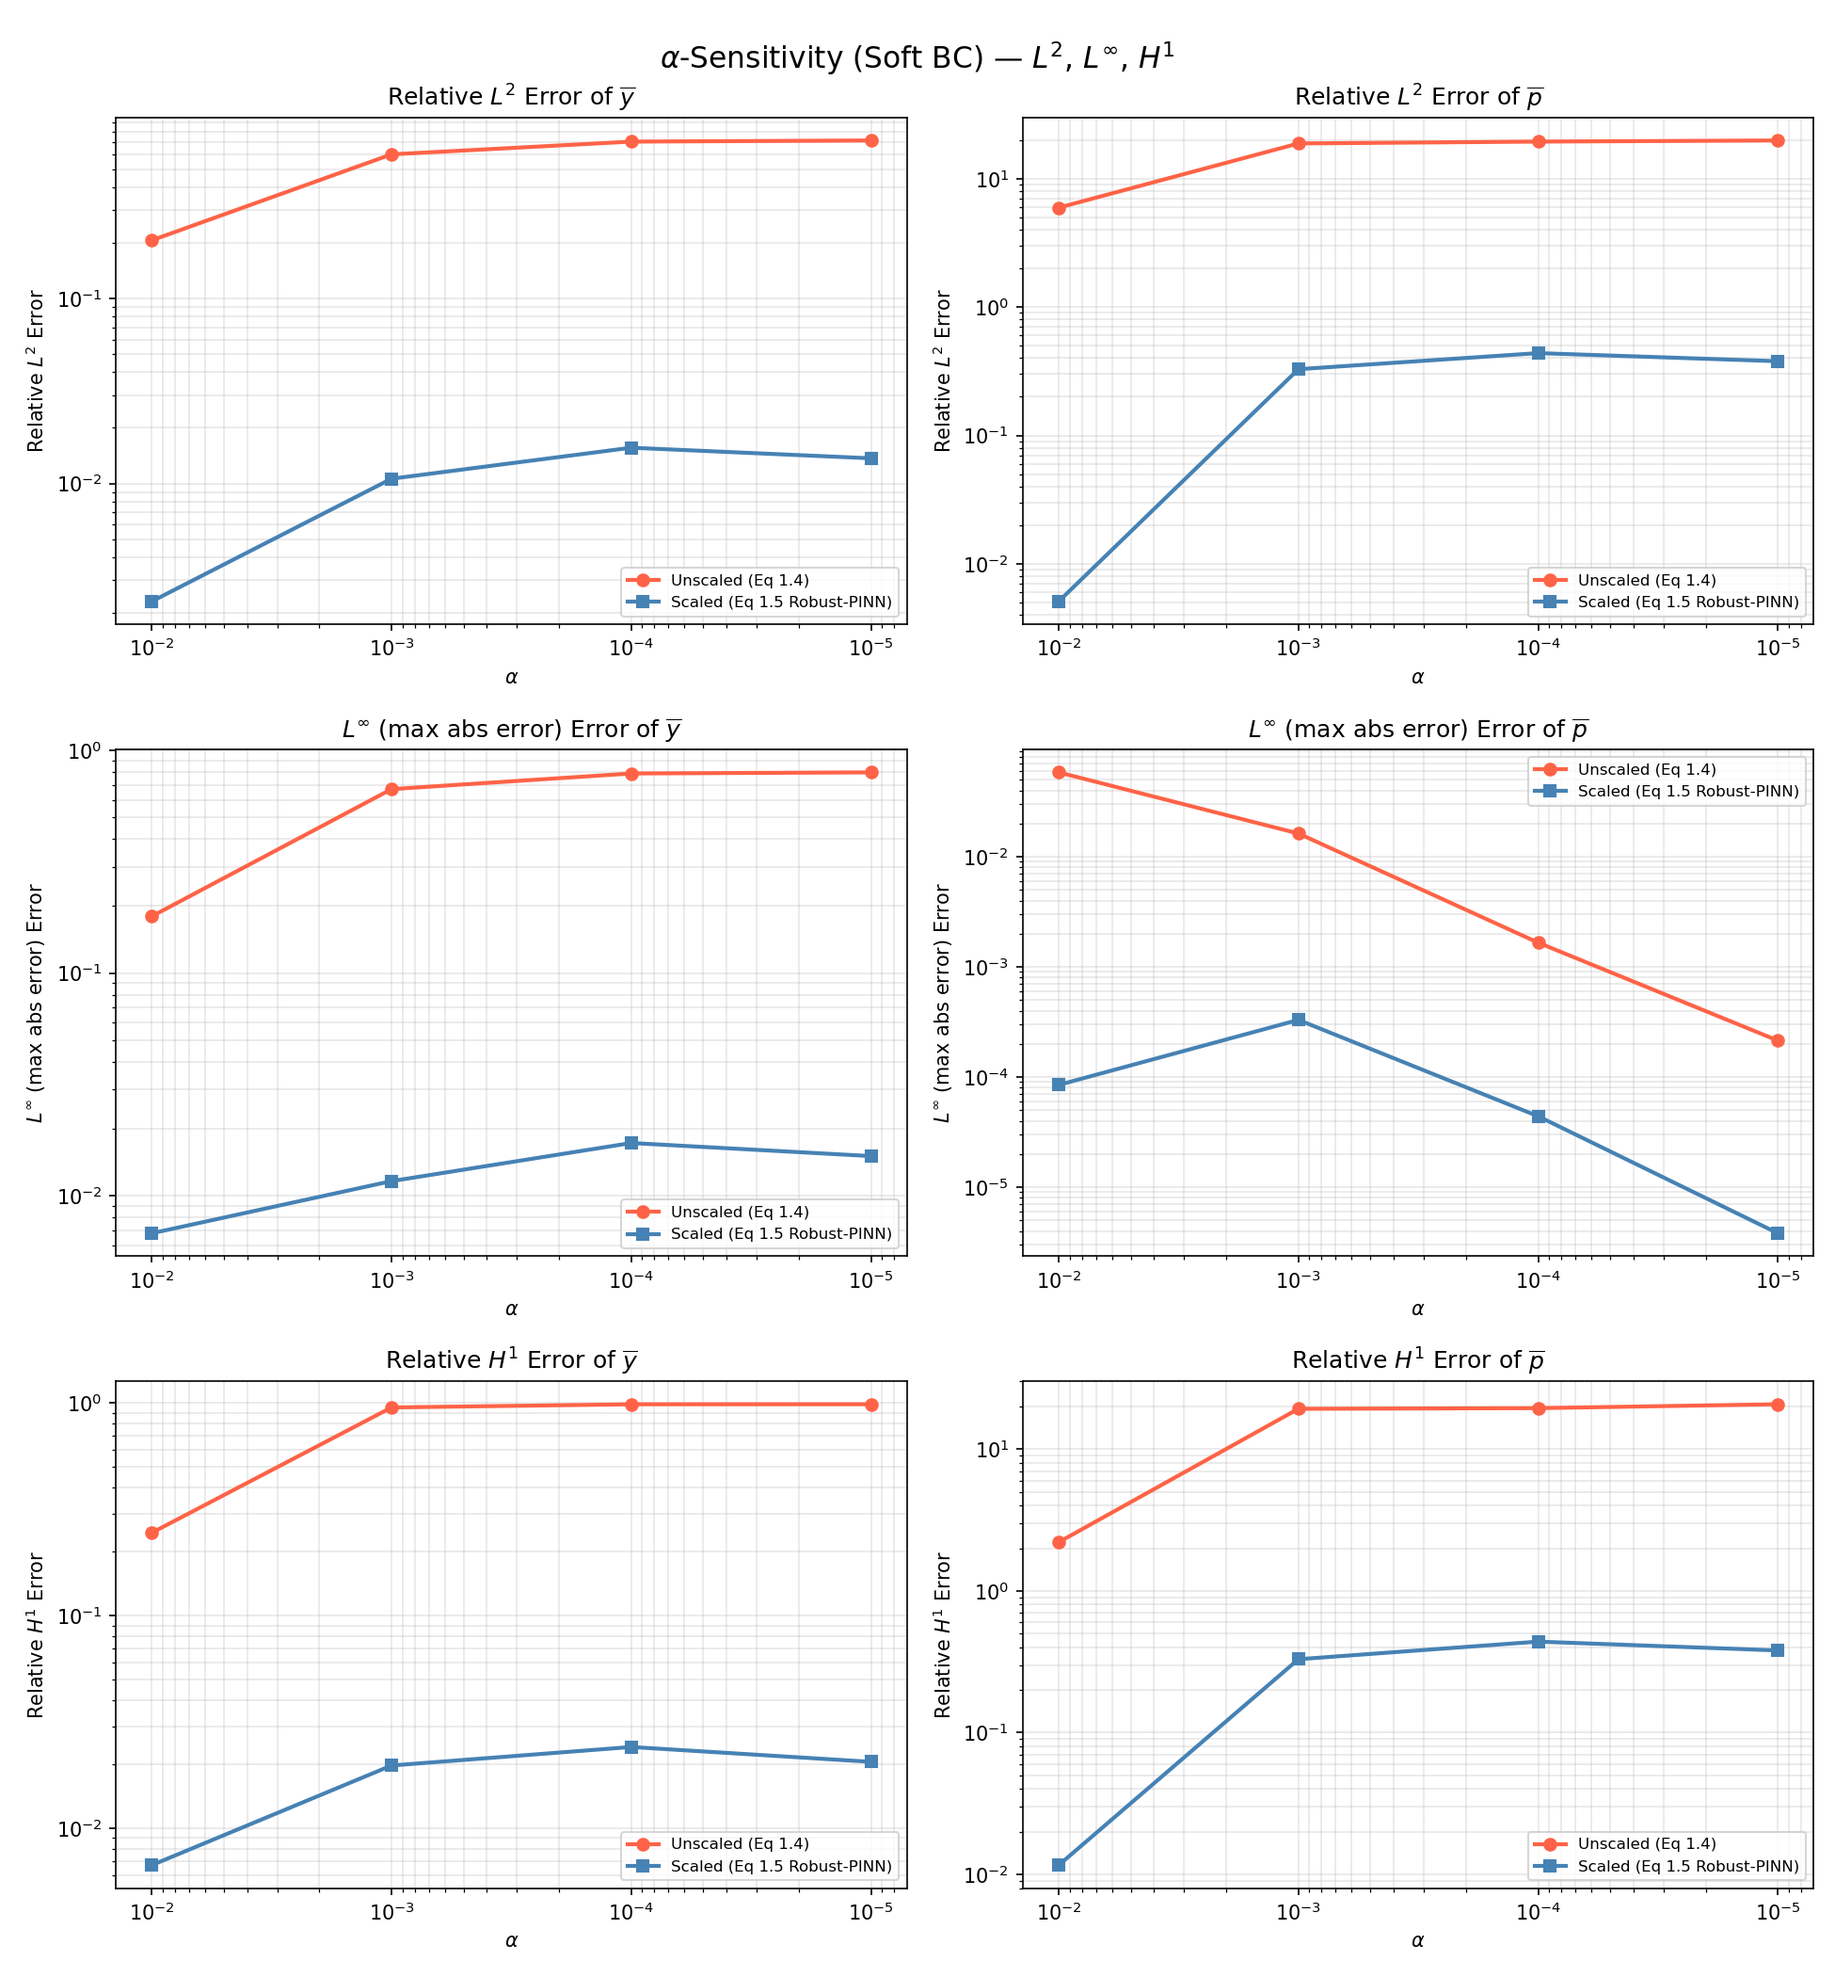
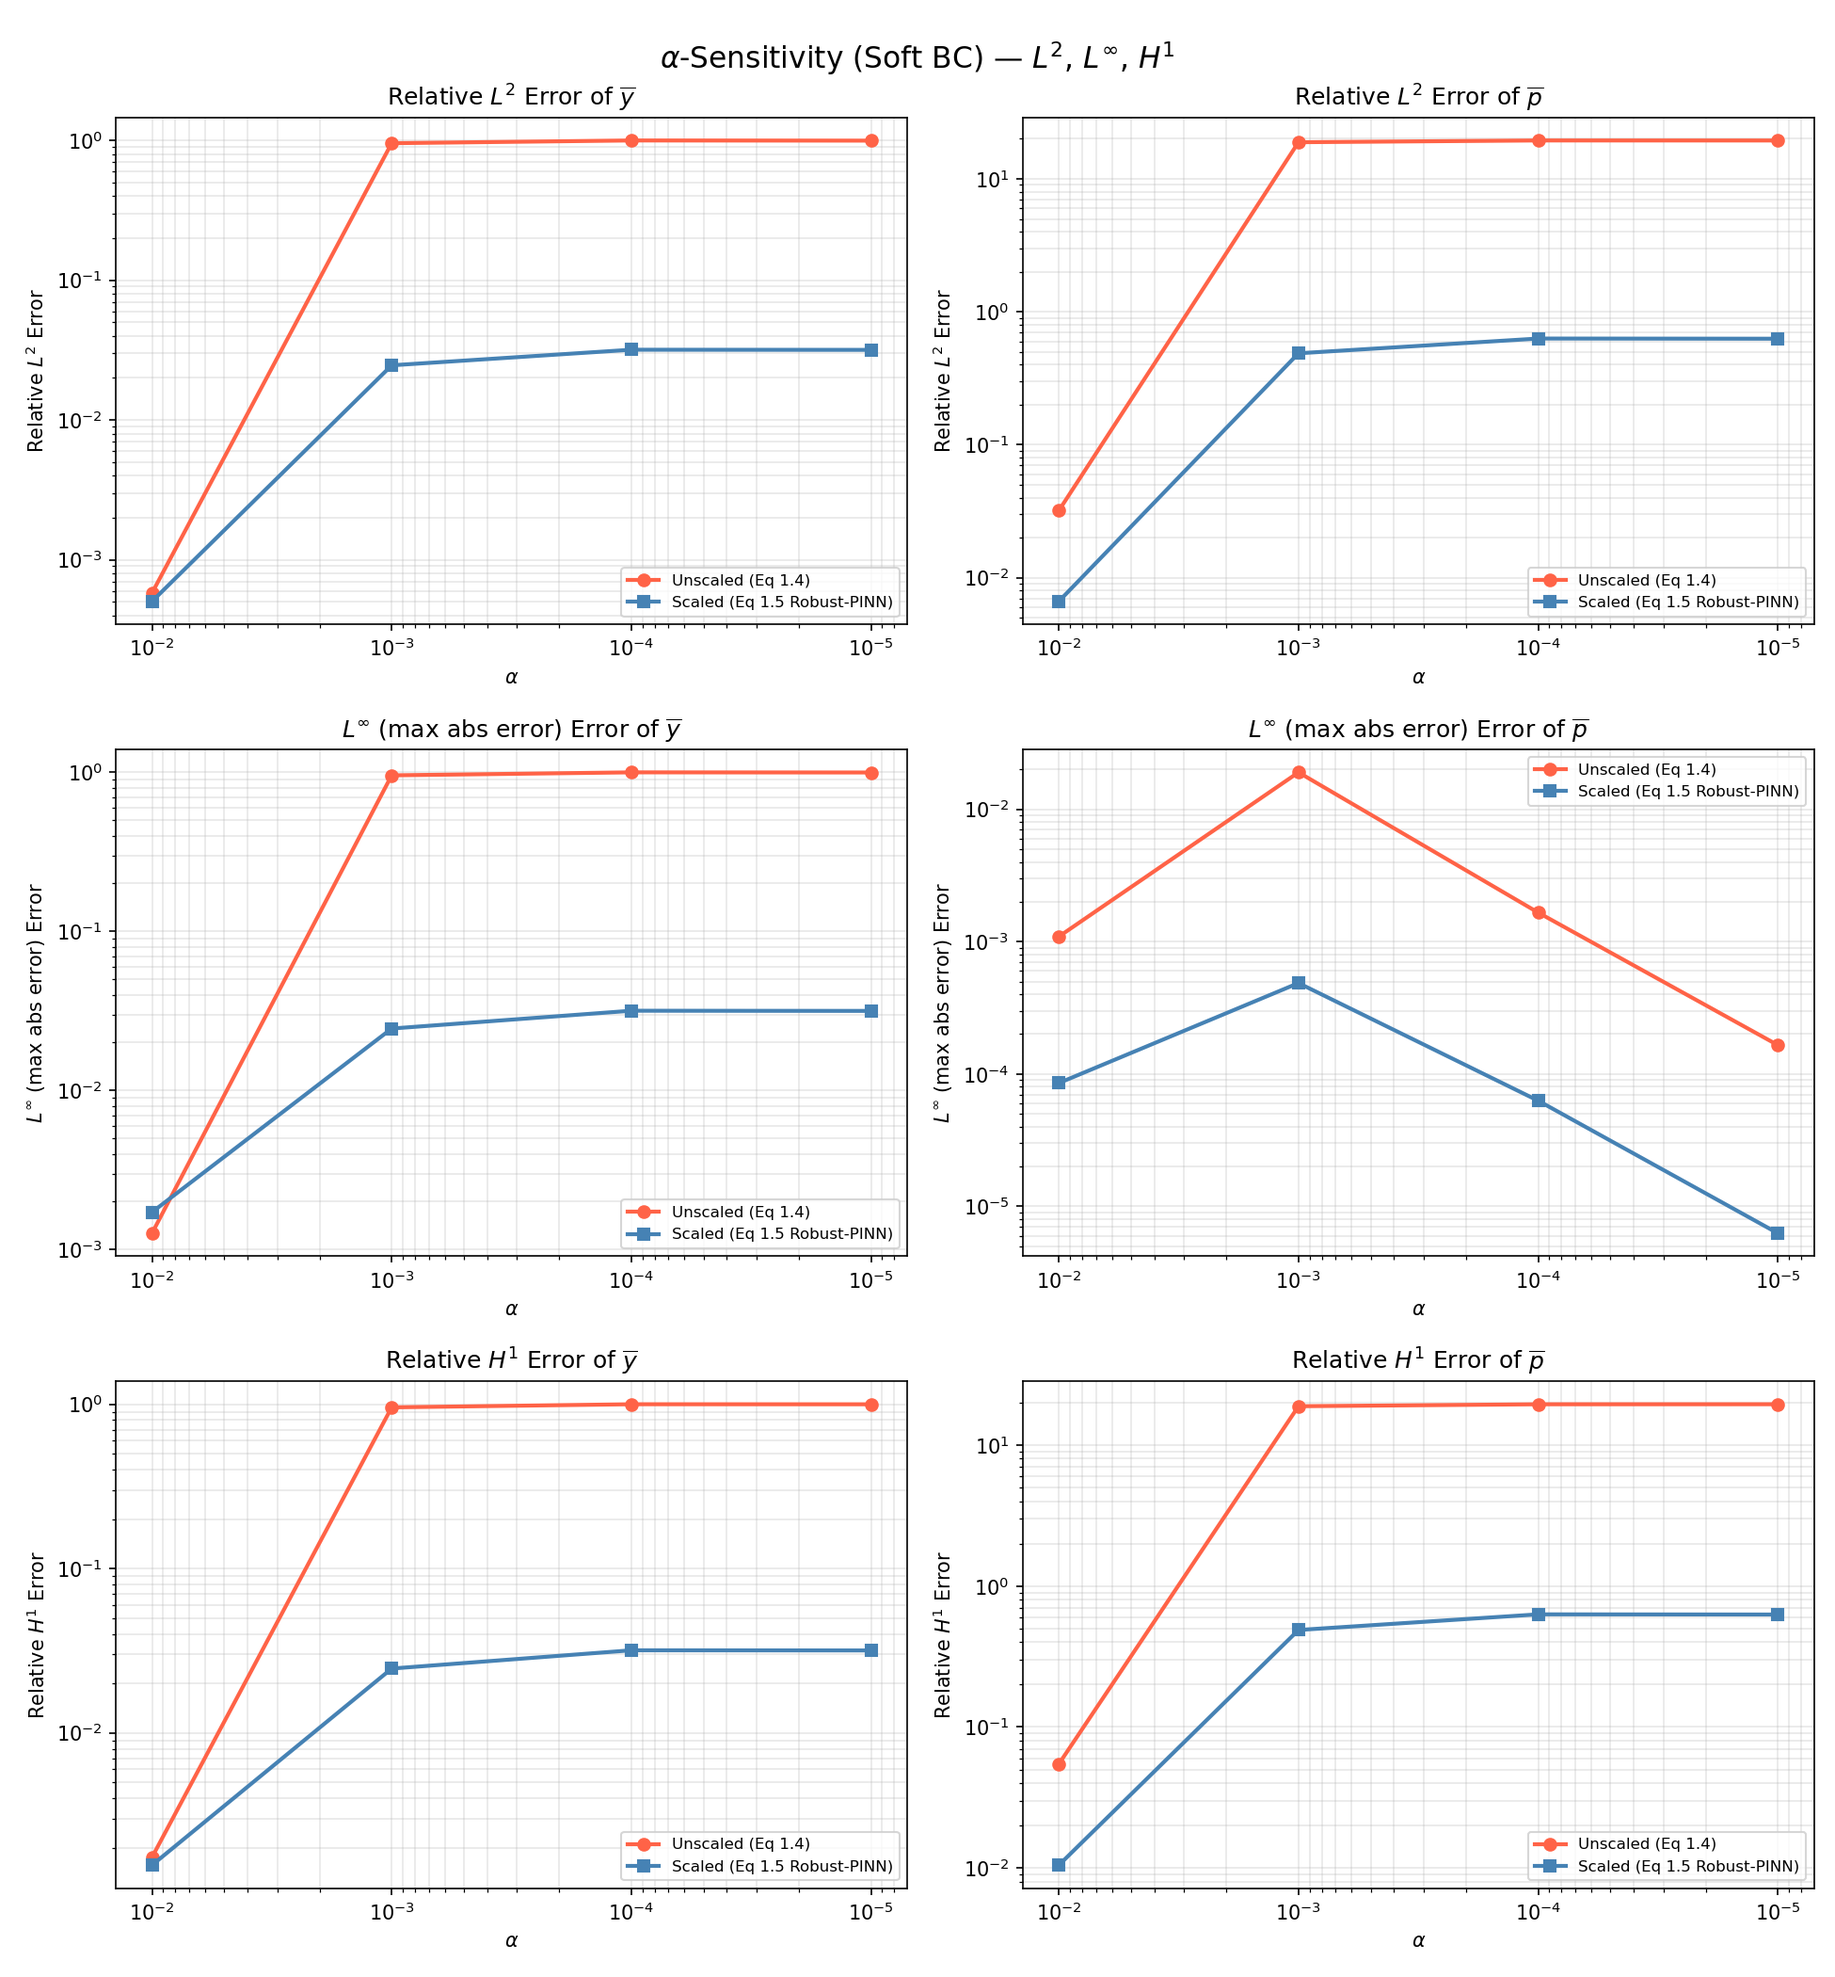
Update soft BC unified sensitivity results

diff --git a/alpha_test_unified_soft-bc.py b/alpha_test_unified_soft-bc.py
@@ -151,7 +151,7 @@ class UnifiedSolver:
         loss_bc = torch.mean(bc_vec ** 2)
 
         # 【修改点 3】：按要求，PDE作为一个整体，BC作为一个整体相加
-        loss = loss_pde + loss_bc
+        loss = loss_pde + 1000*loss_bc
         return loss
 
 
